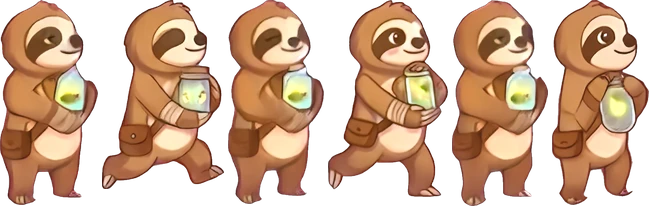
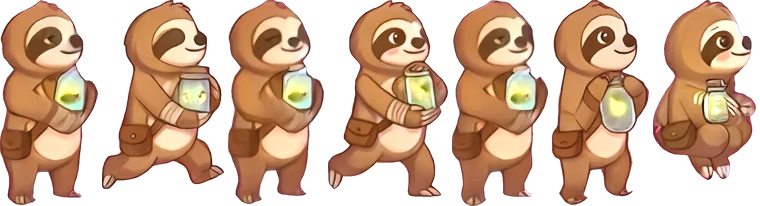
8-4 art round 3: the painted jar gauge (wooden HUD), the firefly tree (packed), the tucked jump with the jar; ~$0.62 total
Claude-Session: https://claude.ai/code/session_01FhBbYNXkjnYNgAxsTrTGve

diff --git a/src/game/w8LanternAtlas.ts b/src/game/w8LanternAtlas.ts
@@ -1,7 +1,7 @@
 // generated by tools/art/hfbatch/lanterncut.py from 8-4 Lantern Run's Hugging Face picks (reference/prop-sheets/qa-notes/8-4-art):
 // where each piece sits in src/assets/w8/lantern.webp, and its anchor (ax, ay: drawn at its foot unless said)
 export interface LanternFrame { x: number; y: number; w: number; h: number; ax: number; ay: number }
-export const LANTERN_FRAMES: Record<string, LanternFrame> = {"jar": {"x": 0, "y": 0, "w": 63, "h": 110, "ax": 31.5, "ay": 66.0}, "jarDim": {"x": 67, "y": 0, "w": 62, "h": 110, "ax": 31.0, "ay": 66.0}, "moth": {"x": 133, "y": 0, "w": 166, "h": 96, "ax": 83.0, "ay": 48.0}};
+export const LANTERN_FRAMES: Record<string, LanternFrame> = {"jar": {"x": 0, "y": 0, "w": 63, "h": 110, "ax": 31.5, "ay": 66.0}, "jarDim": {"x": 67, "y": 0, "w": 62, "h": 110, "ax": 31.0, "ay": 66.0}, "moth": {"x": 133, "y": 0, "w": 166, "h": 96, "ax": 83.0, "ay": 48.0}, "gaugeLit": {"x": 303, "y": 0, "w": 101, "h": 160, "ax": 50.5, "ay": 0.0}, "gaugeDim": {"x": 408, "y": 0, "w": 101, "h": 160, "ax": 50.5, "ay": 0.0}, "tree": {"x": 513, "y": 0, "w": 594, "h": 900, "ax": 297.0, "ay": 900.0}};
 
 /** Pokey with the jar (tools/art/hfbatch/lanternhero.py): src/assets/w8/pokey-jar.webp, as heroStandardData.ts StdFrame (feet ax, ay; torso hx), at the standard frames' scale */
-export const POKEY_JAR_FRAMES: Record<string, { x: number; y: number; w: number; h: number; ax: number; ay: number; hx: number }> = {"hold": {"x": 0, "y": 0, "w": 98, "h": 205, "ax": 44.0, "ay": 204.0, "hx": 50.0}, "walk_0": {"x": 102, "y": 0, "w": 122, "h": 189, "ax": 60.0, "ay": 188.0, "hx": 71.0}, "walk_1": {"x": 228, "y": 0, "w": 96, "h": 204, "ax": 42.0, "ay": 203.0, "hx": 49.0}, "walk_2": {"x": 328, "y": 0, "w": 120, "h": 197, "ax": 56.0, "ay": 196.0, "hx": 70.5}, "walk_3": {"x": 452, "y": 0, "w": 96, "h": 206, "ax": 44.0, "ay": 205.0, "hx": 49.0}, "air": {"x": 552, "y": 0, "w": 97, "h": 205, "ax": 43.5, "ay": 204.0, "hx": 51.0}};
+export const POKEY_JAR_FRAMES: Record<string, { x: number; y: number; w: number; h: number; ax: number; ay: number; hx: number }> = {"hold": {"x": 0, "y": 0, "w": 98, "h": 205, "ax": 44.0, "ay": 204.0, "hx": 50.0}, "walk_0": {"x": 102, "y": 0, "w": 122, "h": 189, "ax": 60.0, "ay": 188.0, "hx": 71.0}, "walk_1": {"x": 228, "y": 0, "w": 96, "h": 204, "ax": 42.0, "ay": 203.0, "hx": 49.0}, "walk_2": {"x": 328, "y": 0, "w": 120, "h": 197, "ax": 56.0, "ay": 196.0, "hx": 70.5}, "walk_3": {"x": 452, "y": 0, "w": 96, "h": 206, "ax": 44.0, "ay": 205.0, "hx": 49.0}, "air": {"x": 552, "y": 0, "w": 97, "h": 205, "ax": 43.5, "ay": 204.0, "hx": 51.0}, "tuck": {"x": 653, "y": 0, "w": 103, "h": 180, "ax": 57.5, "ay": 179.0, "hx": 53.0}};

diff --git a/src/game/w8LanternRun.ts b/src/game/w8LanternRun.ts
@@ -45,7 +45,9 @@ export function jarFrame(name: string): StdFrame | undefined {
   const m = /^(walk|run)_(\d)$/.exec(name);
   if (m) return POKEY_JAR_FRAMES[`walk_${Number(m[2]) >> 1}`];
   if (name === 'idle' || name === 'blink' || name === 'land' || name === 'recover' || name === 'duck') return POKEY_JAR_FRAMES.hold;
-  if (name === 'launch' || name.startsWith('rise') || name === 'apex' || name.startsWith('fall') || name === 'tuck') return POKEY_JAR_FRAMES.air;
+  // (going up and over the top he tucks round the jar; coming down, legs down for the landing)
+  if (name === 'launch' || name.startsWith('rise') || name === 'apex' || name === 'tuck') return POKEY_JAR_FRAMES.tuck;
+  if (name.startsWith('fall')) return POKEY_JAR_FRAMES.air;
   return undefined;
 }
 
@@ -260,12 +262,13 @@ function drawMoth(ctx: CanvasRenderingContext2D, x: number, y: number, beat: num
   ctx.restore();
 }
 
-/** the HUD's jar (screen px, its top-left at x, y): the painted jar, lit by its level, the empty jar under it; it blinks when low */
+/** the HUD's jar gauge (screen px, its top-left at x, y): the painted jar on the HUD's wooden plate, hung on its tendril (Hugging Face,
+ *  in the painted HUD's style); the lit jar fades out over the empty one as the light goes, and blinks when low */
 export function drawJarMeter(ctx: CanvasRenderingContext2D, x: number, y: number, level: number, t: number, low: number): void {
   const img = pieces();
   if (!img) return;
-  const f = LANTERN_FRAMES.jar, fd = LANTERN_FRAMES.jarDim;
-  const s = 44 / f.h;
+  const f = LANTERN_FRAMES.gaugeLit, fd = LANTERN_FRAMES.gaugeDim;
+  const s = 52 / f.h;
   ctx.save();
   blitPiece(ctx, img, fd, x + f.ax * s, y + f.ay * s, s);
   const blink = level < low ? 0.55 + 0.45 * Math.sin(t * 10) : 1;

diff --git a/src/game/engine.ts b/src/game/engine.ts
@@ -6027,10 +6027,12 @@ export class GameEngine {
       drawDarkness(ctx, this.camera.viewportWidth, this.camera.viewportHeight, this.darkShow, { x: this.player.x - cx0, y: this.player.y - 30 - cy0 }, lights, this.gameTime, grotto ? { heroR: 125, ink: 'rgb(2, 12, 10)', fireflies: false } : this.lanternRun ? { heroR: this.lanternRun.radius() } : undefined);
       if (this.lanternRun) {
         this.lanternRun.drawOver(ctx, cx0, cy0, this.gameTime);
-        // (the jar's level under the lives, in screen px)
+        // (the jar gauge under the lives, in screen px)
         ctx.save();
         ctx.scale(1 / this.zoom, 1 / this.zoom);
-        drawJarMeter(ctx, 18, (this.viewCssH || 400) > (this.viewCssW || 400) ? 112 : 92, this.lanternRun.st.level, this.gameTime, this.lanternRun.set.low);
+        // (hung from the lives plate's underside, as the plate hangs from the vine)
+        const up = (this.viewCssH || 400) > (this.viewCssW || 400);
+        drawJarMeter(ctx, up ? 17 : 46, up ? 80 : 78, this.lanternRun.st.level, this.gameTime, this.lanternRun.set.low);
         ctx.restore();
       }
     }
